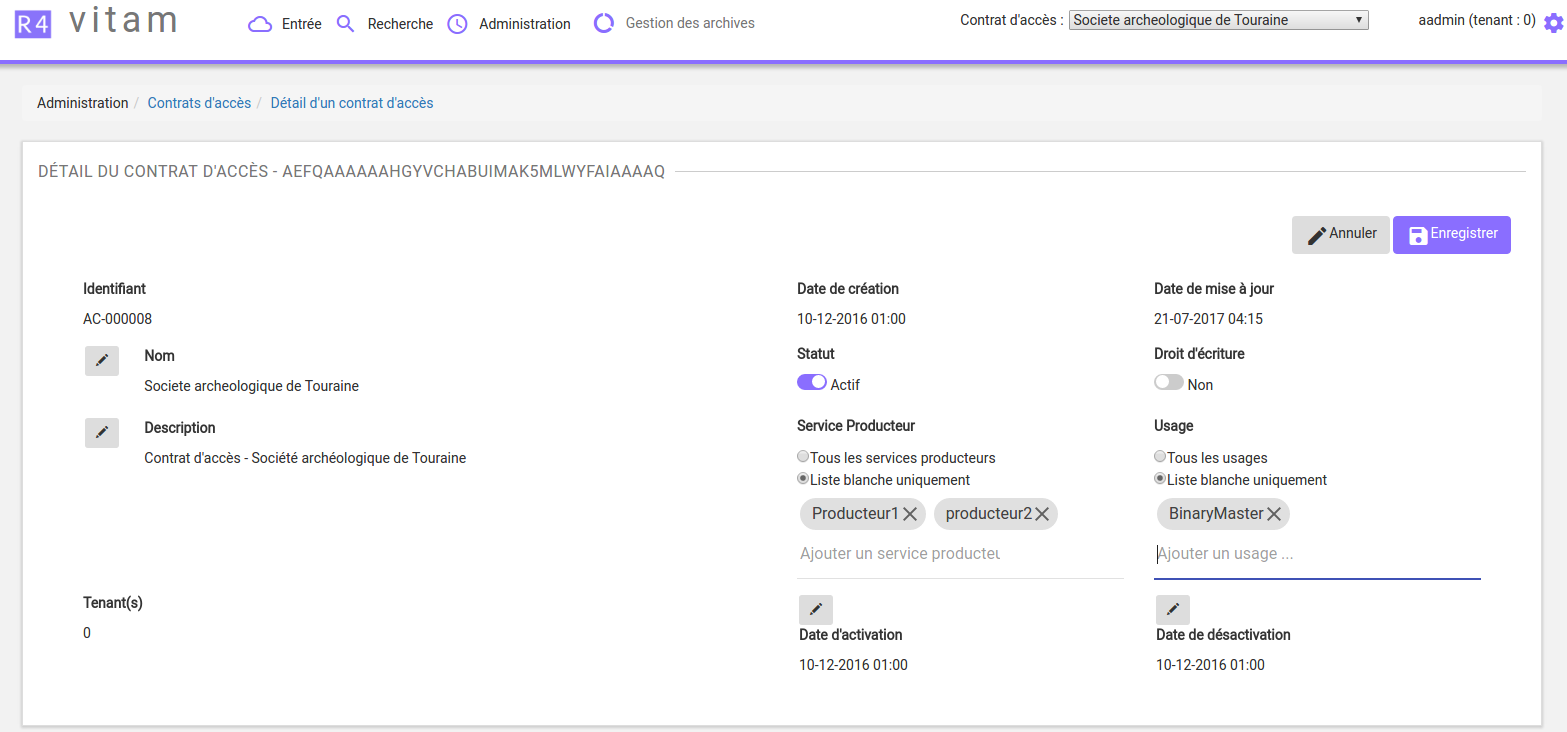
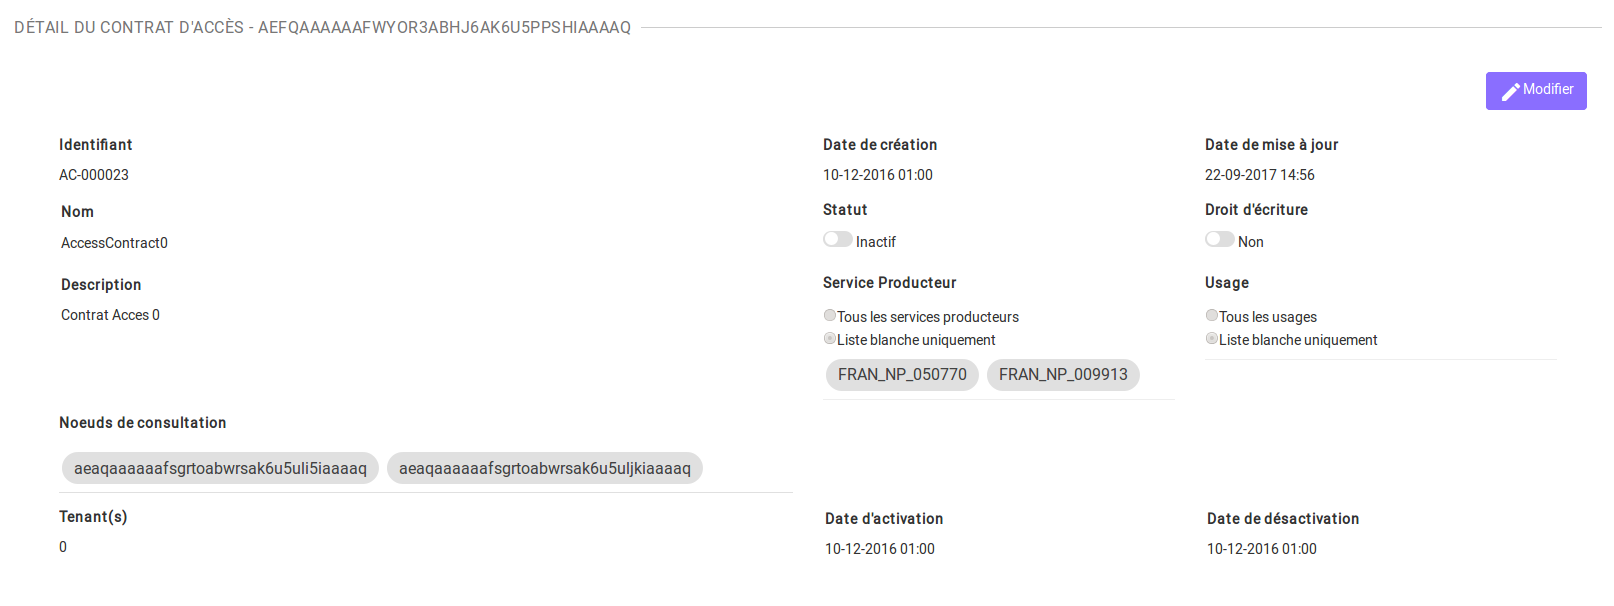
item_2424_documentation_update

diff --git a/doc/fr/manuel-utilisateur/Administration.rst b/doc/fr/manuel-utilisateur/Administration.rst
@@ -398,6 +398,7 @@ La page "Détail d'un contrat d'accès" contient les informations suivantes :
 * Date de désactivation
 * Droit d'écriture
 * Usage
+* Noeuds de consultation
 
 .. image:: images/CONTRACTS_acces_contract_detail.png
 
@@ -439,6 +440,10 @@ Un contrat peut autoriser l'accès à tous ou certains usages d'objets inclus da
  - accès à une sélection de services producteurs en cliquant sur le bouton "Liste blanche uniquement"
 
  .. image:: images/CONTRACTS_acces_contract_update.png
+
+Restriction par noeud de consultation
+
+Un contrat peut restreindre l'accès aux unités archivistiques listées en tant que noeuds de consultation ainsi qu'à leurs enfants. Chaque unités archivistiques renseignée est identifiée par son identifiant. Si aucune unité archivistique n'y est renseignée, alors l'accès du détenteur du contrat n'est pas restreint à des noeuds de consultation. 
 
 Contrats d'entrée
 -----------------

diff --git a/doc/fr/data-model/masterdata.rst b/doc/fr/data-model/masterdata.rst
@@ -396,7 +396,11 @@ Exemple de JSON stocké en base
     "WritingPermission": true,
     "EveryOriginatingAgency": false,
     "EveryDataObjectVersion": true,
-    "_v": 0
+    "_v": 0,
+    "RootUnits": [
+        "aeaqaaaaaahxunbaabg3yak6urend2yaaaaq",
+        "aeaqaaaaaahxunbaabg3yak6urendoqaaaaq"
+    ]
     }
 
 Exemple d'un fichier d'import de contrat d'accès
@@ -484,6 +488,9 @@ Détail des champs
 
 "_v": version de l'objet décrit
   Il s'agit d'un entier.
+
+"RootUnits": Liste des noeuds de consultation auxquels le détenteur du contrat a accès. Si aucun noeud n'est spécifié, alors l'utilisateur a accès à tous les noeuds.
+  Il s'agit d'un tableau de chaînes de caractères.
 
 Collection Profile
 ===================
